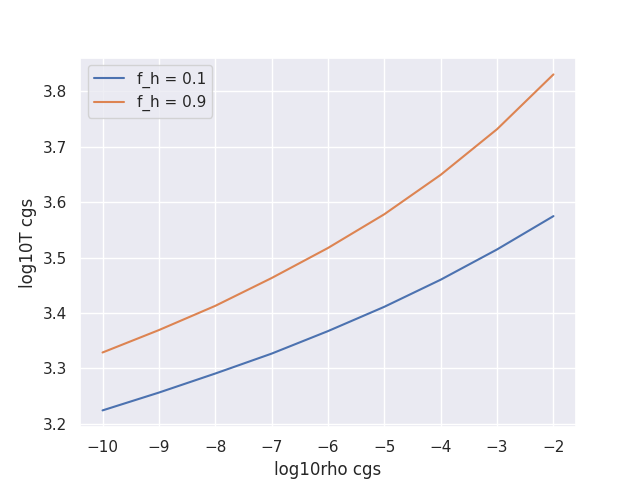
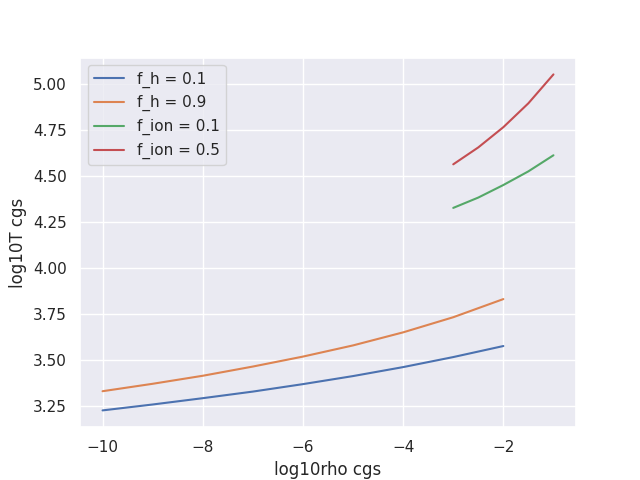
add : 電離のプロット

diff --git a/plot_fh_2d.py b/plot_fh_2d.py
@@ -30,6 +30,39 @@ def search_fh():
             if np.abs(fh_high - 0.9) < np.abs(best_high - 0.9):
                 best_high = fh_high
                 best_tmp_high = item
+        rho_ls.append(rho_res)
+        tmp_ls_low.append(best_tmp_low)
+        tmp_ls_high.append(best_tmp_high)
+    rho_ls = np.log10(np.array(rho_ls))
+    tmp_ls_low = np.log10(np.array(tmp_ls_low))
+    tmp_ls_high = np.log10(np.array(tmp_ls_high))
+    return rho_ls, tmp_ls_low, tmp_ls_high
+
+
+def search_fion():
+
+    rho_ls = []
+    tmp_ls_low = []
+    tmp_ls_high = []
+
+    # グリッドサーチ
+    for rho_index in [-3, -2.5, -2, -1.5, -1]:
+        rho_res = 10 ** rho_index
+        tmp_ls = np.linspace(3000, 150000, 1000)
+        best_low = 0.0
+        best_tmp_low = 3000
+        best_high = 0.0
+        best_tmp_high = 3000
+        for item in tmp_ls:
+            fion_low = calc_fh(item, rho_res, 1.4)[2]
+            fion_high = calc_fh(item, rho_res, 1.4 / 1.6)[2]
+
+            if np.abs(fion_low - 0.1) < np.abs(best_low - 0.1):
+                best_low = fion_low
+                best_tmp_low = item
+            if np.abs(fion_high - 0.5) < np.abs(best_high - 0.5):
+                best_high = fion_high
+                best_tmp_high = item
         print("index:", rho_index)
         print(best_low)
         print(best_high)
@@ -44,10 +77,13 @@ def search_fh():
 
 def main():
     sns.set_theme()
-    rho_ls, tmp_ls_low, tmp_ls_high = search_fh()
+    rho_fh, tmp_fh_low, tmp_fh_high = search_fh()
+    rho_fion, tmp_fion_low, tmp_fion_high = search_fion()
     figure = plt.figure()
-    plt.plot(rho_ls, tmp_ls_low, label="f_h = 0.1")
-    plt.plot(rho_ls, tmp_ls_high, label="f_h = 0.9")
+    plt.plot(rho_fh, tmp_fh_low, label="f_h = 0.1")
+    plt.plot(rho_fh, tmp_fh_high, label="f_h = 0.9")
+    plt.plot(rho_fion, tmp_fion_low, label="f_ion = 0.1")
+    plt.plot(rho_fion, tmp_fion_high, label="f_ion = 0.5")
     plt.xlabel("log10rho cgs")
     plt.ylabel("log10T cgs")
     plt.legend()

diff --git a/plot_core.py b/plot_core.py
@@ -6,7 +6,7 @@ import seaborn as sns
 
 from file_operator import read_json, read_index
 from conditions import GRID, AVG
-from plot_fh_2d import search_fh
+from plot_fh_2d import search_fh, search_fion
 
 
 def main():
@@ -56,10 +56,12 @@ def main():
     plt.plot(rho_ls, tmp_ls)
     plt.xlabel("log10rho cgs")
     plt.ylabel("log10T cgs")
-    rho_ls_fh, tmp_ls_low, tmp_ls_high = search_fh()
-
-    plt.plot(rho_ls_fh, tmp_ls_low, linestyle="dashed", label="f_h = 0.1")
-    plt.plot(rho_ls_fh, tmp_ls_high, linestyle="dashed", label="f_h = 0.9")
+    rho_fh, tmp_fh_low, tmp_fh_high = search_fh()
+    rho_fion, tmp_fion_low, tmp_fion_high = search_fion()
+    plt.plot(rho_fh, tmp_fh_low, linestyle="dashed", label="f_h = 0.1")
+    plt.plot(rho_fh, tmp_fh_high, linestyle="dashed", label="f_h = 0.9")
+    plt.plot(rho_fion, tmp_fion_low, linestyle="dashed", label="f_ion = 0.1")
+    plt.plot(rho_fion, tmp_fion_high, linestyle="dashed", label="f_ion = 0.5")
     plt.legend()
     os.makedirs("results/" + config["plot_tag"], exist_ok=True)
     plt.savefig("results/" + config["plot_tag"] + "/core.png")
